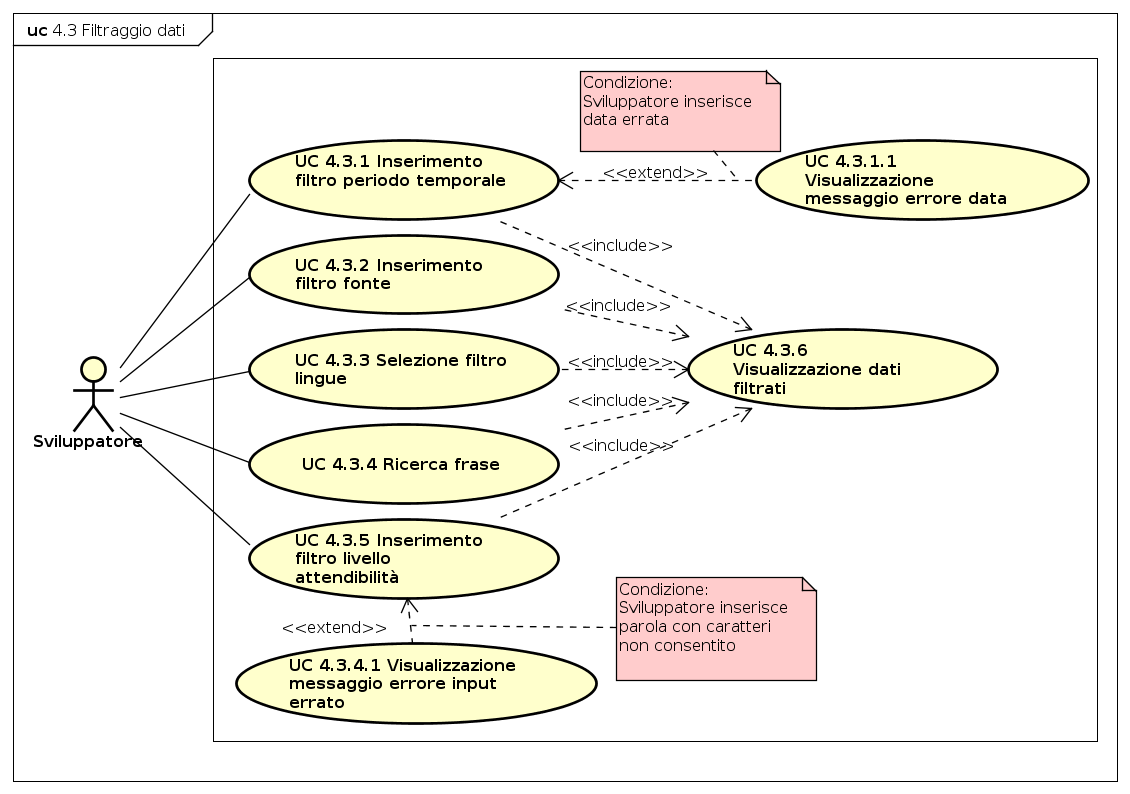
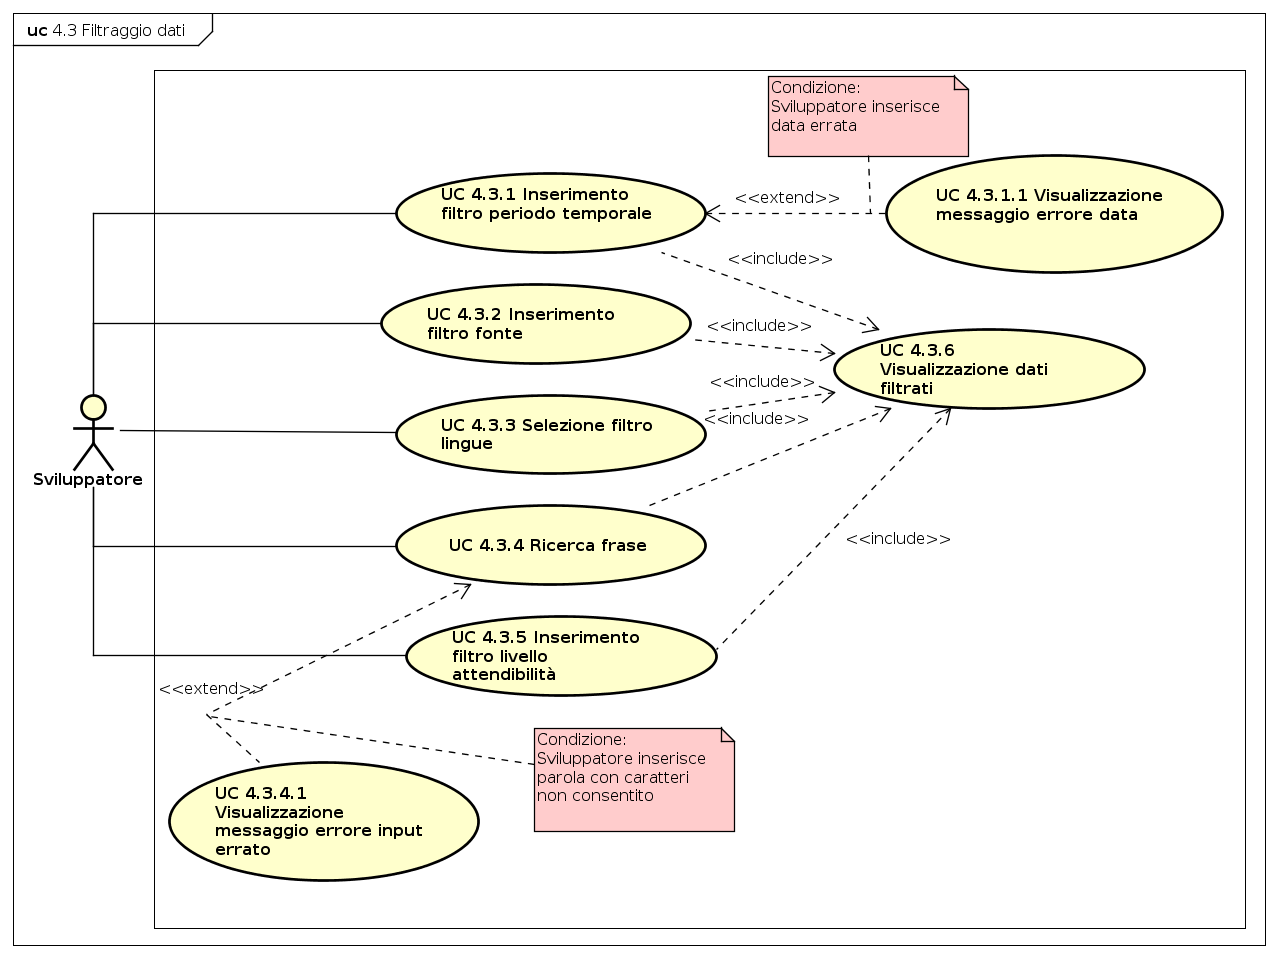
Sistemato Sviluppatore

diff --git a/RP/Analisi_dei_requisiti/sez/sviluppatori.tex b/RP/Analisi_dei_requisiti/sez/sviluppatori.tex
@@ -74,6 +74,15 @@
 	\end{enumerate}
 \end{itemize}
 
+\subsubsection{UC 4.3.1.1 - Visualizzazione messaggio errore data errata}
+\begin{itemize}
+	\item[•]\textbf{Attori}: Sviluppatore;
+	\item[•]\textbf{Descrizione}: lo sviluppatore visualizza un messaggio di errore sul periodo selezionato;
+	\item[•]\textbf{Precondizione}: lo sviluppatore ha inserito una data non conforme all'interno del filtro relativo al periodo temporale;
+	\item[•]\textbf{Postcondizione}: il filtro è stato erroneamente inserito pertanto viene visualizzato un messaggio di errore;
+	\item[•]\textbf{Flusso degli eventi}: lo sviluppatore ha inserito una data non conforme, cioè che non rispetta il formato stabilito o che indica un periodo temporale non idoneo, pertanto visualizza un messaggio di errore.
+\end{itemize}
+
 \subsubsection{UC 4.3.2 - Inserimento filtro fonte}
 \begin{itemize}
 	\item[•]\textbf{Attori}: Sviluppatore;
@@ -125,6 +134,18 @@
 		\item UC 4.3.6 - Visualizzazione dati filtrati.
 	\end{enumerate}
 \end{itemize}
+
+\subsubsection{UC 4.3.4.1 - Visualizzazione messaggio errore input errato}
+\begin{itemize}
+	\item[•]\textbf{Attori}: Sviluppatore;
+	\item[•]\textbf{Descrizione}: lo sviluppatore visualizza un messaggio di errore sulla ricerca.
+	\item[•]\textbf{Precondizione}: lo sviluppatore ha inserito una frase non conforme;
+	\item[•]\textbf{Postcondizione}: lo sviluppatore visualizza un messaggio di errore relativo 
+	all'inserimento di un input errato, cioè non conforme a ciò che il sistema si attendeva.
+	\item[•]\textbf{Flusso degli eventi}: lo sviluppatore inserisce un input non conforme, cioè contenente caratteri non ammessi, e visualizza un messaggio di input errato.
+\end{itemize}
+
+
 \subsubsection{UC 4.3.5 - Inserimento filtro livello attendibilità}
 \begin{itemize}
 	\item[•]\textbf{Attori}: Sviluppatore;
@@ -142,6 +163,8 @@
 	\end{enumerate}
 \end{itemize}
 
+
+
 \subsubsection{UC 4.3.6 - Visualizzazione dati filtrati}
 \begin{itemize}
 	\item[•]\textbf{Attori}: Sviluppatore;
@@ -156,7 +179,7 @@
 	\begin{figure}[H]
 		\centering
 		\includegraphics[width=14cm, keepaspectratio]{img/UC437.png} 
-		\caption{Caso d'uso UC 4.3.7 relativo alla rimozione dei filtri}\label{fig:437}
+		\caption{Caso d'uso UC 4.3.7 relativo alla rimozione dei filtri.}\label{fig:437}
 	\end{figure}
 	\item[•]\textbf{Attori}: Sviluppatore;
 	\item[•]\textbf{Descrizione}: lo sviluppatore cancella il valore del filtro selezionato.
@@ -164,25 +187,6 @@
 	\item[•]\textbf{Postcondizione}: il filtro è stato rimosso pertanto i dati visualizzati non rispetteranno più tale vincolo;
 	\item[•]\textbf{Flusso degli eventi}: lo sviluppatore seleziona il filtro e lo rimuove.
 \end{itemize}
-
-\subsubsection{UC 4.3.1.1 - Visualizzazione messaggio errore data errata}
-\begin{itemize}
-	\item[•]\textbf{Attori}: Sviluppatore;
-	\item[•]\textbf{Descrizione}: lo sviluppatore visualizza un messaggio di errore sul periodo selezionato;
-	\item[•]\textbf{Precondizione}: lo sviluppatore ha inserito una data non conforme all'interno del filtro relativo al periodo temporale;
-	\item[•]\textbf{Postcondizione}: il filtro è stato erroneamente inserito pertanto viene visualizzato un messaggio di errore;
-	\item[•]\textbf{Flusso degli eventi}: lo sviluppatore ha inserito una data non conforme, cioè che non rispetta il formato stabilito o che indica un periodo temporale non idoneo, pertanto visualizza un messaggio di errore.
-\end{itemize}
-\subsubsection{UC 4.3.4.1 - Visualizzazione messaggio errore input errato}
-\begin{itemize}
-	\item[•]\textbf{Attori}: Sviluppatore;
-	\item[•]\textbf{Descrizione}: lo sviluppatore visualizza un messaggio di errore sulla ricerca.
-	\item[•]\textbf{Precondizione}: lo sviluppatore ha inserito una frase non conforme;
-	\item[•]\textbf{Postcondizione}: lo sviluppatore visualizza un messaggio di errore relativo 
-	all'inserimento di un input errato, cioè non conforme a ciò che il sistema si attendeva.
-	\item[•]\textbf{Flusso degli eventi}: lo sviluppatore inserisce un input non conforme, cioè contenente caratteri non ammessi, e visualizza un messaggio di input errato.
-\end{itemize}
-
 
 \subsubsection{UC 4.4 - Visualizzazione storico frase}
 \begin{itemize}
@@ -442,31 +446,6 @@
 		\item UC 4.11.4.2 - Inserimento conferma nuova password.
 	\end{enumerate}
 \end{itemize}
-\subsubsection{UC 4.11.5 - Modifica data di nascita}
-\begin{itemize}
-	\item[•]\textbf{Attori}: Sviluppatore;
-	\item[•]\textbf{Descrizione}: lo sviluppatore modifica il proprio cognome;
-	\item[•]\textbf{Precondizione}: lo sviluppatore sta modificando i propri dati personali;
-	\item[•]\textbf{Postcondizione}: lo sviluppatore ha modificato il proprio cognome; 
-	\item[•]\textbf{Flusso degli eventi}: 
-	\begin{enumerate}
-		\item Selezione campo data di nascita;
-		\item Modifica la stringa che rappresenta la data di nascita, inserendo il valore corretto.
-	\end{enumerate}
-\end{itemize}
-\subsubsection{UC 4.11.6 - Modifica lingua interfaccia applicativo}
-\begin{itemize}
-	\item[•]\textbf{Attori}: Sviluppatore;
-	\item[•]\textbf{Descrizione}: lo sviluppatore modifica la lingua dell'applicativo;
-	\item[•]\textbf{Precondizione}: lo sviluppatore sta modificando i propri dati personali;
-	\item[•]\textbf{Postcondizione}: lo sviluppatore ha modificato la lingua dell'applicativo; 
-	\item[•]\textbf{Flusso degli eventi}: 
-	\begin{enumerate}
-		\item Selezione campo dati lingua applicativo;
-		\item Selezione da un elenco predefinito la lingua dell'applicativo desiderata.
-	\end{enumerate}
-\end{itemize}
-
 
 \subsubsection{UC 4.11.4.1 - Inserimento nuova password}
 \begin{itemize}
@@ -518,6 +497,31 @@
 	\item[•]\textbf{Precondizione}: lo sviluppatore ha inserito il valore del campo conferma nuova password;
 	\item[•]\textbf{Postcondizione}: lo sviluppatore visualizza un messaggio di errore relativo all'inserimento di una password che non combacia con quella inserita nel campo nuova password; 
 	\item[•]\textbf{Flusso degli eventi}: lo sviluppatore ha inserito una password che non combacia con quella inserita nel campo nuova password, pertanto riceve un messaggio che indica la presenza di tale difformità.
+\end{itemize}
+
+\subsubsection{UC 4.11.5 - Modifica data di nascita}
+\begin{itemize}
+	\item[•]\textbf{Attori}: Sviluppatore;
+	\item[•]\textbf{Descrizione}: lo sviluppatore modifica il proprio cognome;
+	\item[•]\textbf{Precondizione}: lo sviluppatore sta modificando i propri dati personali;
+	\item[•]\textbf{Postcondizione}: lo sviluppatore ha modificato il proprio cognome; 
+	\item[•]\textbf{Flusso degli eventi}: 
+	\begin{enumerate}
+		\item Selezione campo data di nascita;
+		\item Modifica la stringa che rappresenta la data di nascita, inserendo il valore corretto.
+	\end{enumerate}
+\end{itemize}
+\subsubsection{UC 4.11.6 - Modifica lingua interfaccia applicativo}
+\begin{itemize}
+	\item[•]\textbf{Attori}: Sviluppatore;
+	\item[•]\textbf{Descrizione}: lo sviluppatore modifica la lingua dell'applicativo;
+	\item[•]\textbf{Precondizione}: lo sviluppatore sta modificando i propri dati personali;
+	\item[•]\textbf{Postcondizione}: lo sviluppatore ha modificato la lingua dell'applicativo; 
+	\item[•]\textbf{Flusso degli eventi}: 
+	\begin{enumerate}
+		\item Selezione campo dati lingua applicativo;
+		\item Selezione da un elenco predefinito la lingua dell'applicativo desiderata.
+	\end{enumerate}
 \end{itemize}
 
 \subsubsection{UC 4.11.7 - Conferma modifica dati}
